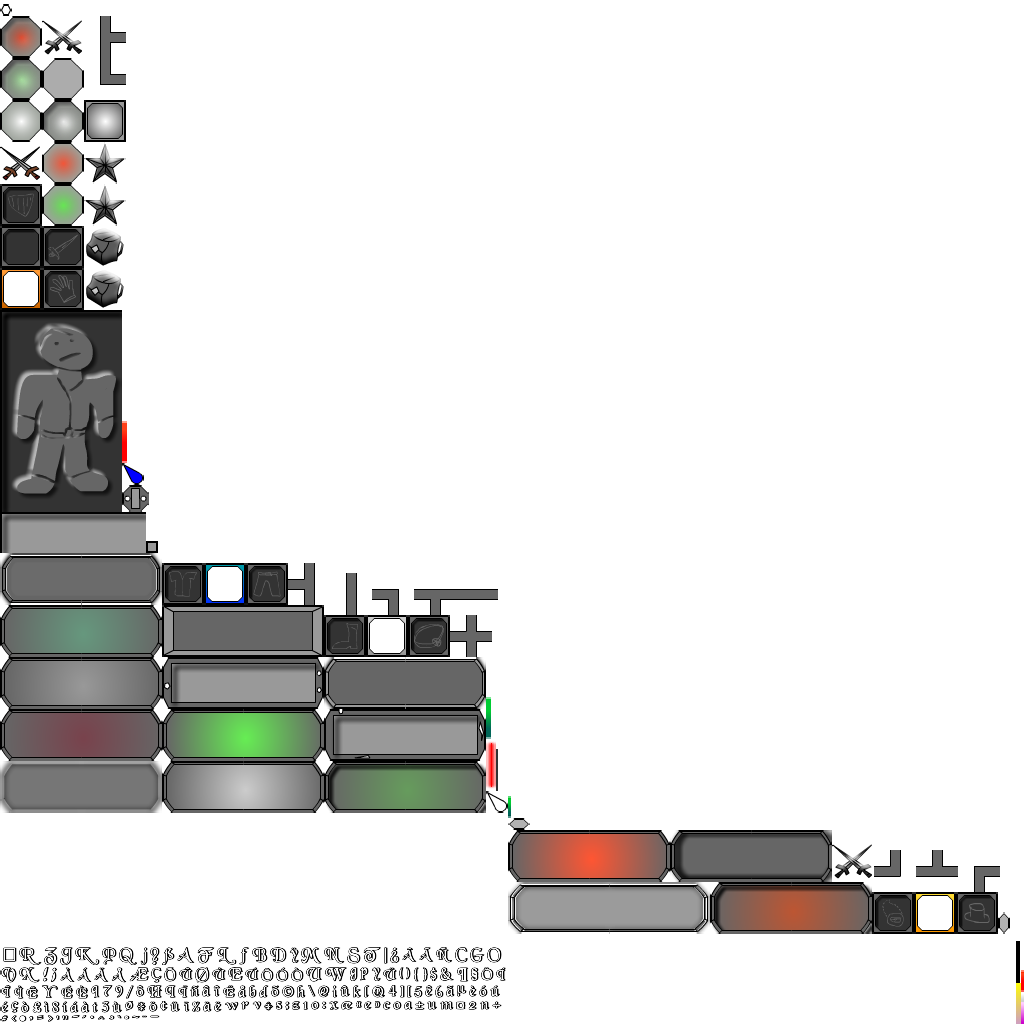
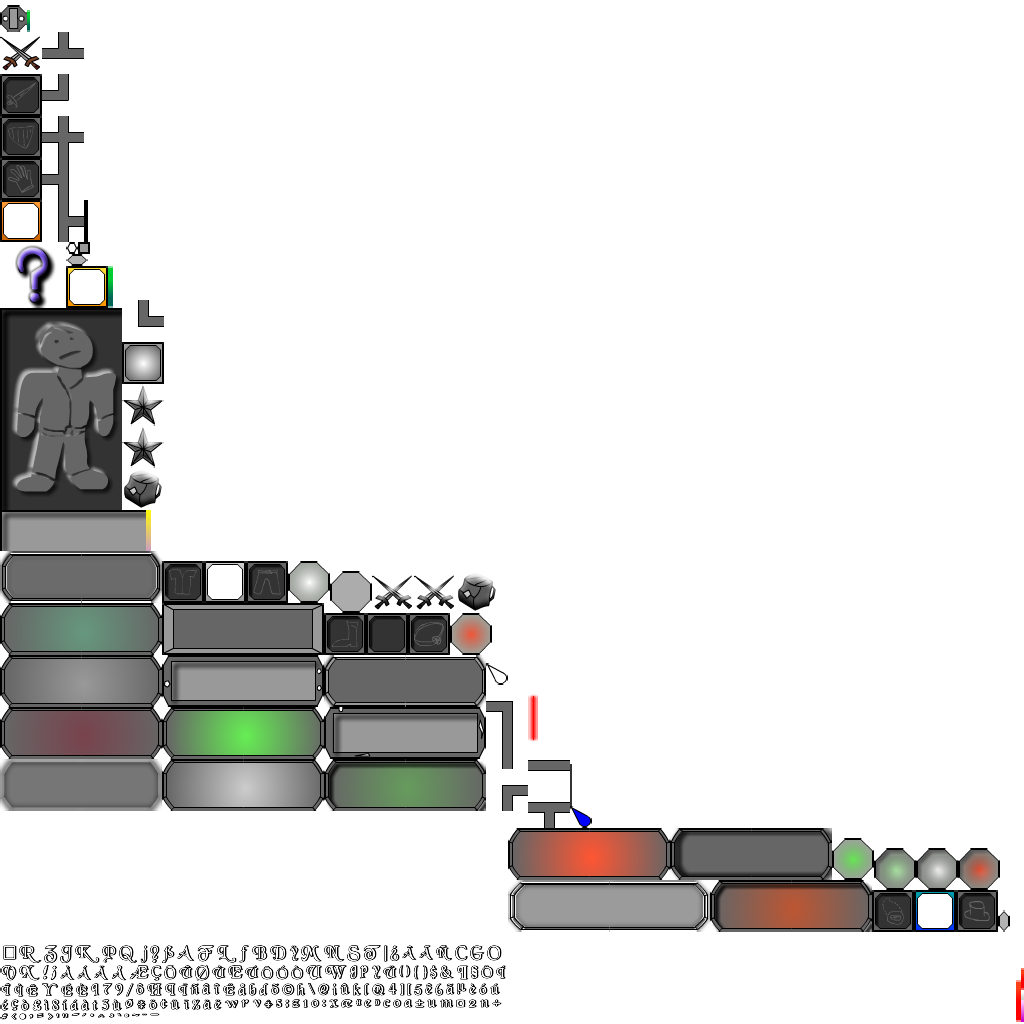
Unknown image placeholder

diff --git a/core/src/ru/rdude/rpg/game/ui/ItemVisual.java b/core/src/ru/rdude/rpg/game/ui/ItemVisual.java
@@ -8,6 +8,7 @@ import com.badlogic.gdx.scenes.scene2d.ui.Image;
 import com.badlogic.gdx.scenes.scene2d.ui.Label;
 import com.badlogic.gdx.utils.Align;
 import com.fasterxml.jackson.annotation.JsonIgnoreType;
+import ru.rdude.rpg.game.logic.data.resources.Resource;
 import ru.rdude.rpg.game.logic.entities.items.Item;
 import ru.rdude.rpg.game.logic.entities.items.ItemCountObserver;
 import ru.rdude.rpg.game.logic.game.Game;
@@ -34,7 +35,13 @@ public class ItemVisual extends Group implements ItemCountObserver {
         item.subscribe(this);
 
         // item image
-        itemImage = new Image(Game.getImageFactory().getRegion(item.getEntityData().getResources().getMainImage().getGuid()));
+        Resource mainImageResource = item.getEntityData().getResources().getMainImage();
+        if (mainImageResource != null) {
+            itemImage = new Image(Game.getImageFactory().getRegion(mainImageResource.getGuid()));
+        }
+        else {
+            itemImage = new Image(UiData.UNKNOWN_IMAGE_64X64);
+        }
 
         // rarity border
         switch (item.getEntityData().getRarity()) {

diff --git a/core/src/ru/rdude/rpg/game/ui/UiData.java b/core/src/ru/rdude/rpg/game/ui/UiData.java
@@ -17,6 +17,7 @@ public class UiData {
     public final static String RED_GREEN_CHECKBOX = "Red_Green_mud";
     public final static Drawable SEMI_TRANSPARENT_BACKGROUND = DEFAULT_SKIN.getDrawable("Window_Transparent_9p");
     public final static Drawable DEFAULT_BACKGROUND = DEFAULT_SKIN.getDrawable("Window_9p");
+    public final static Drawable UNKNOWN_IMAGE_64X64 = DEFAULT_SKIN.getDrawable("Unknown_Image_64x64");
     public static float UNIT_SIZE = Gdx.graphics.getWidth() / 100f;
 
     public static class ItemBorder {
